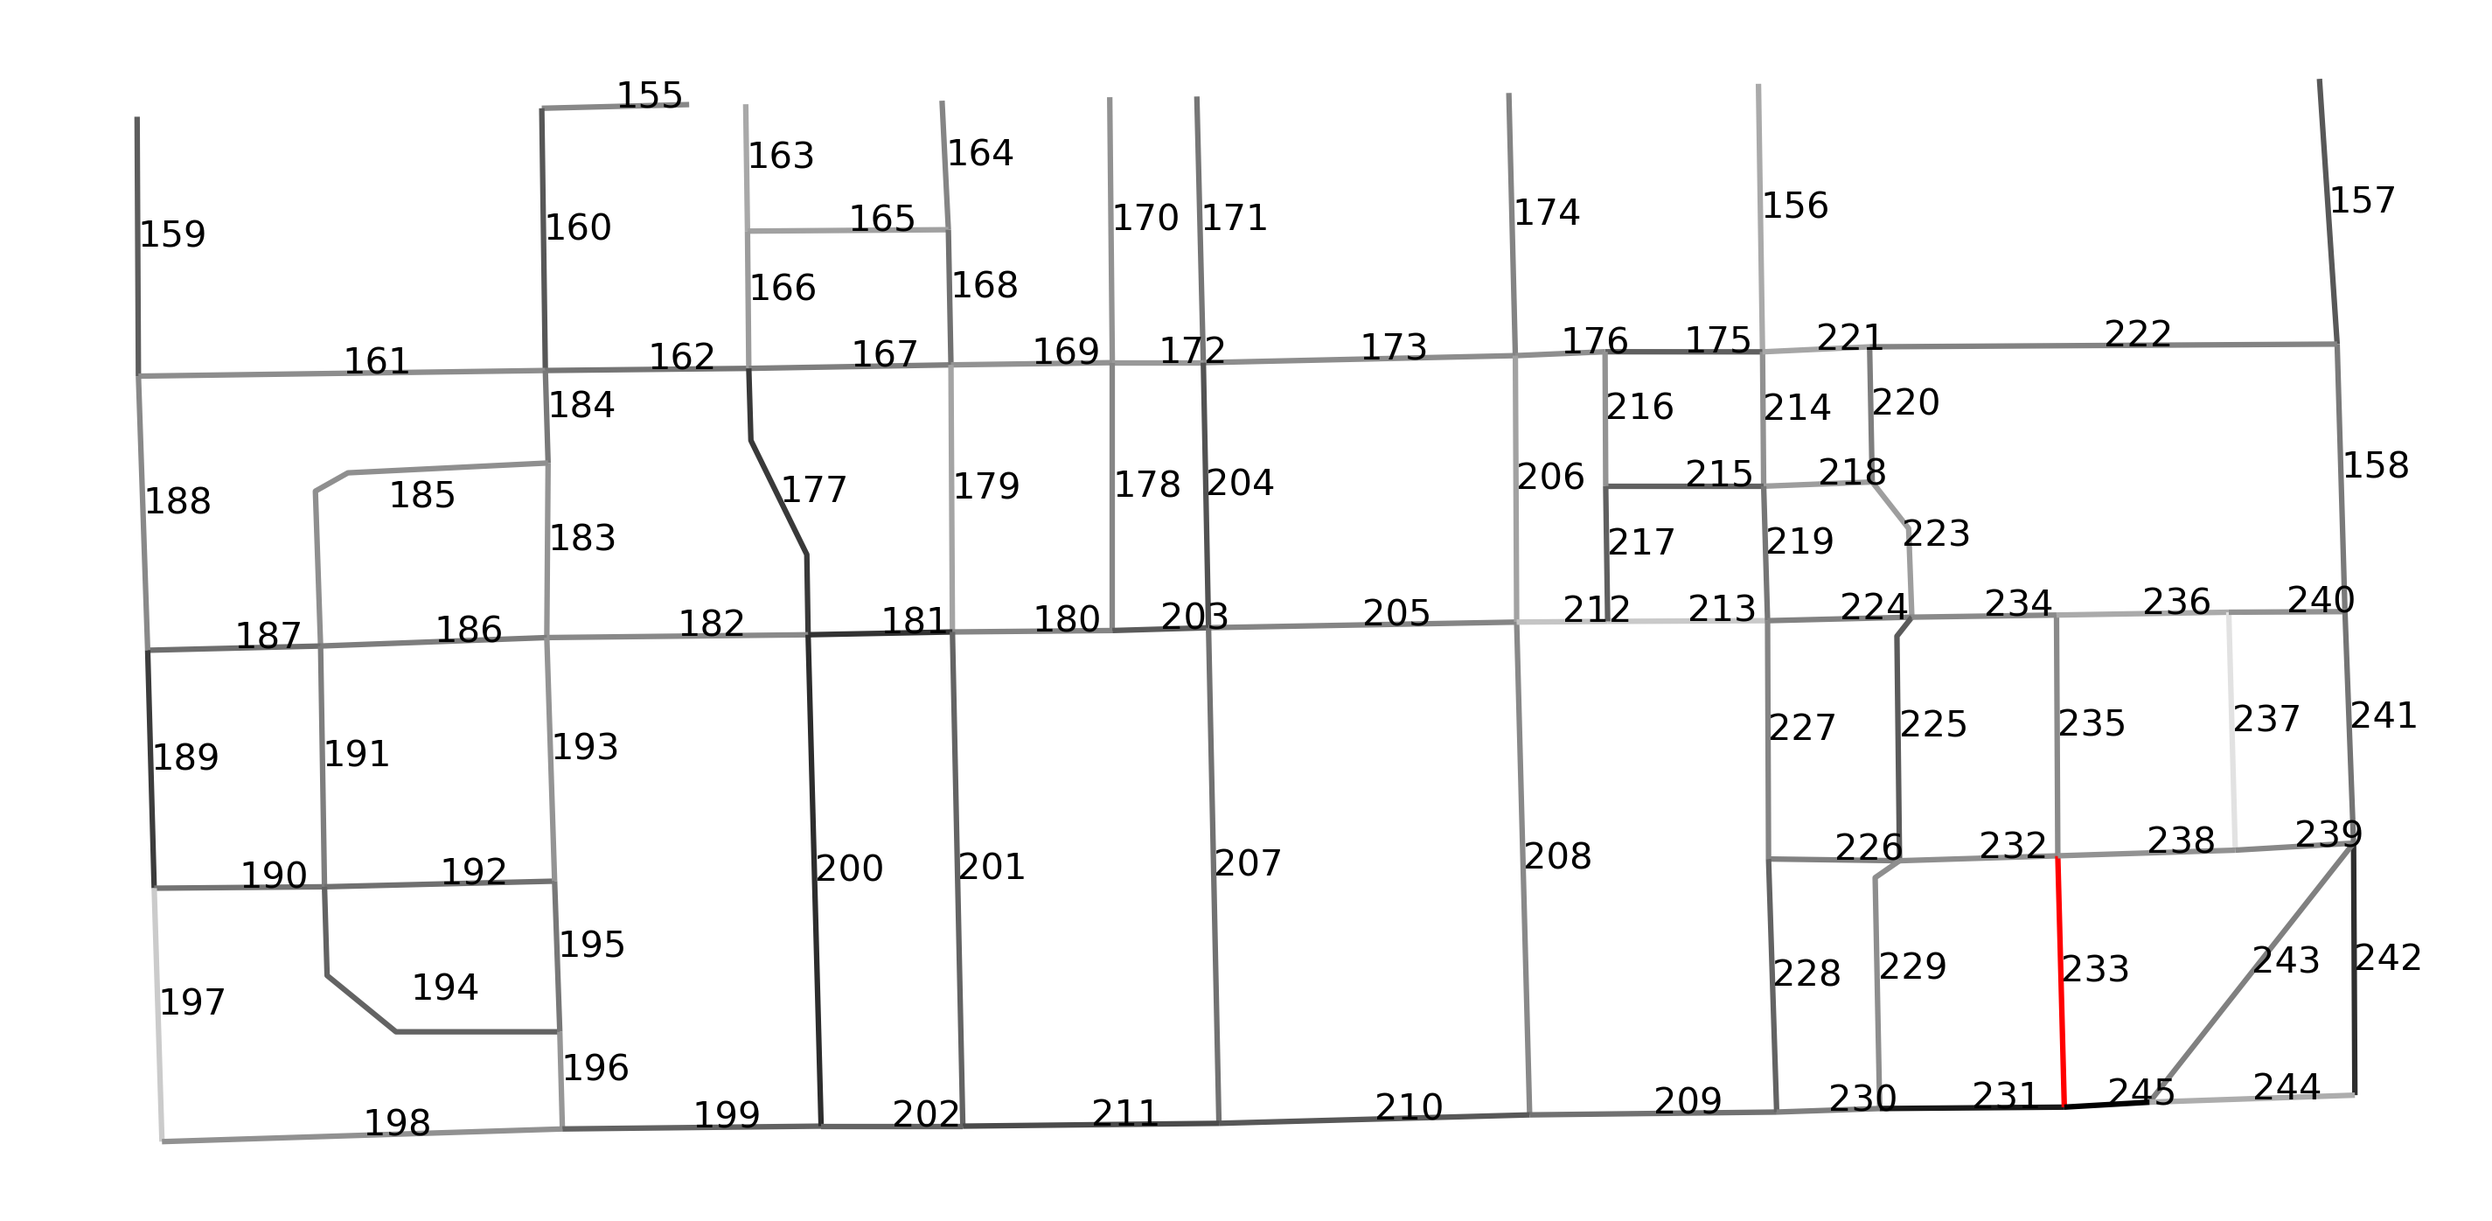
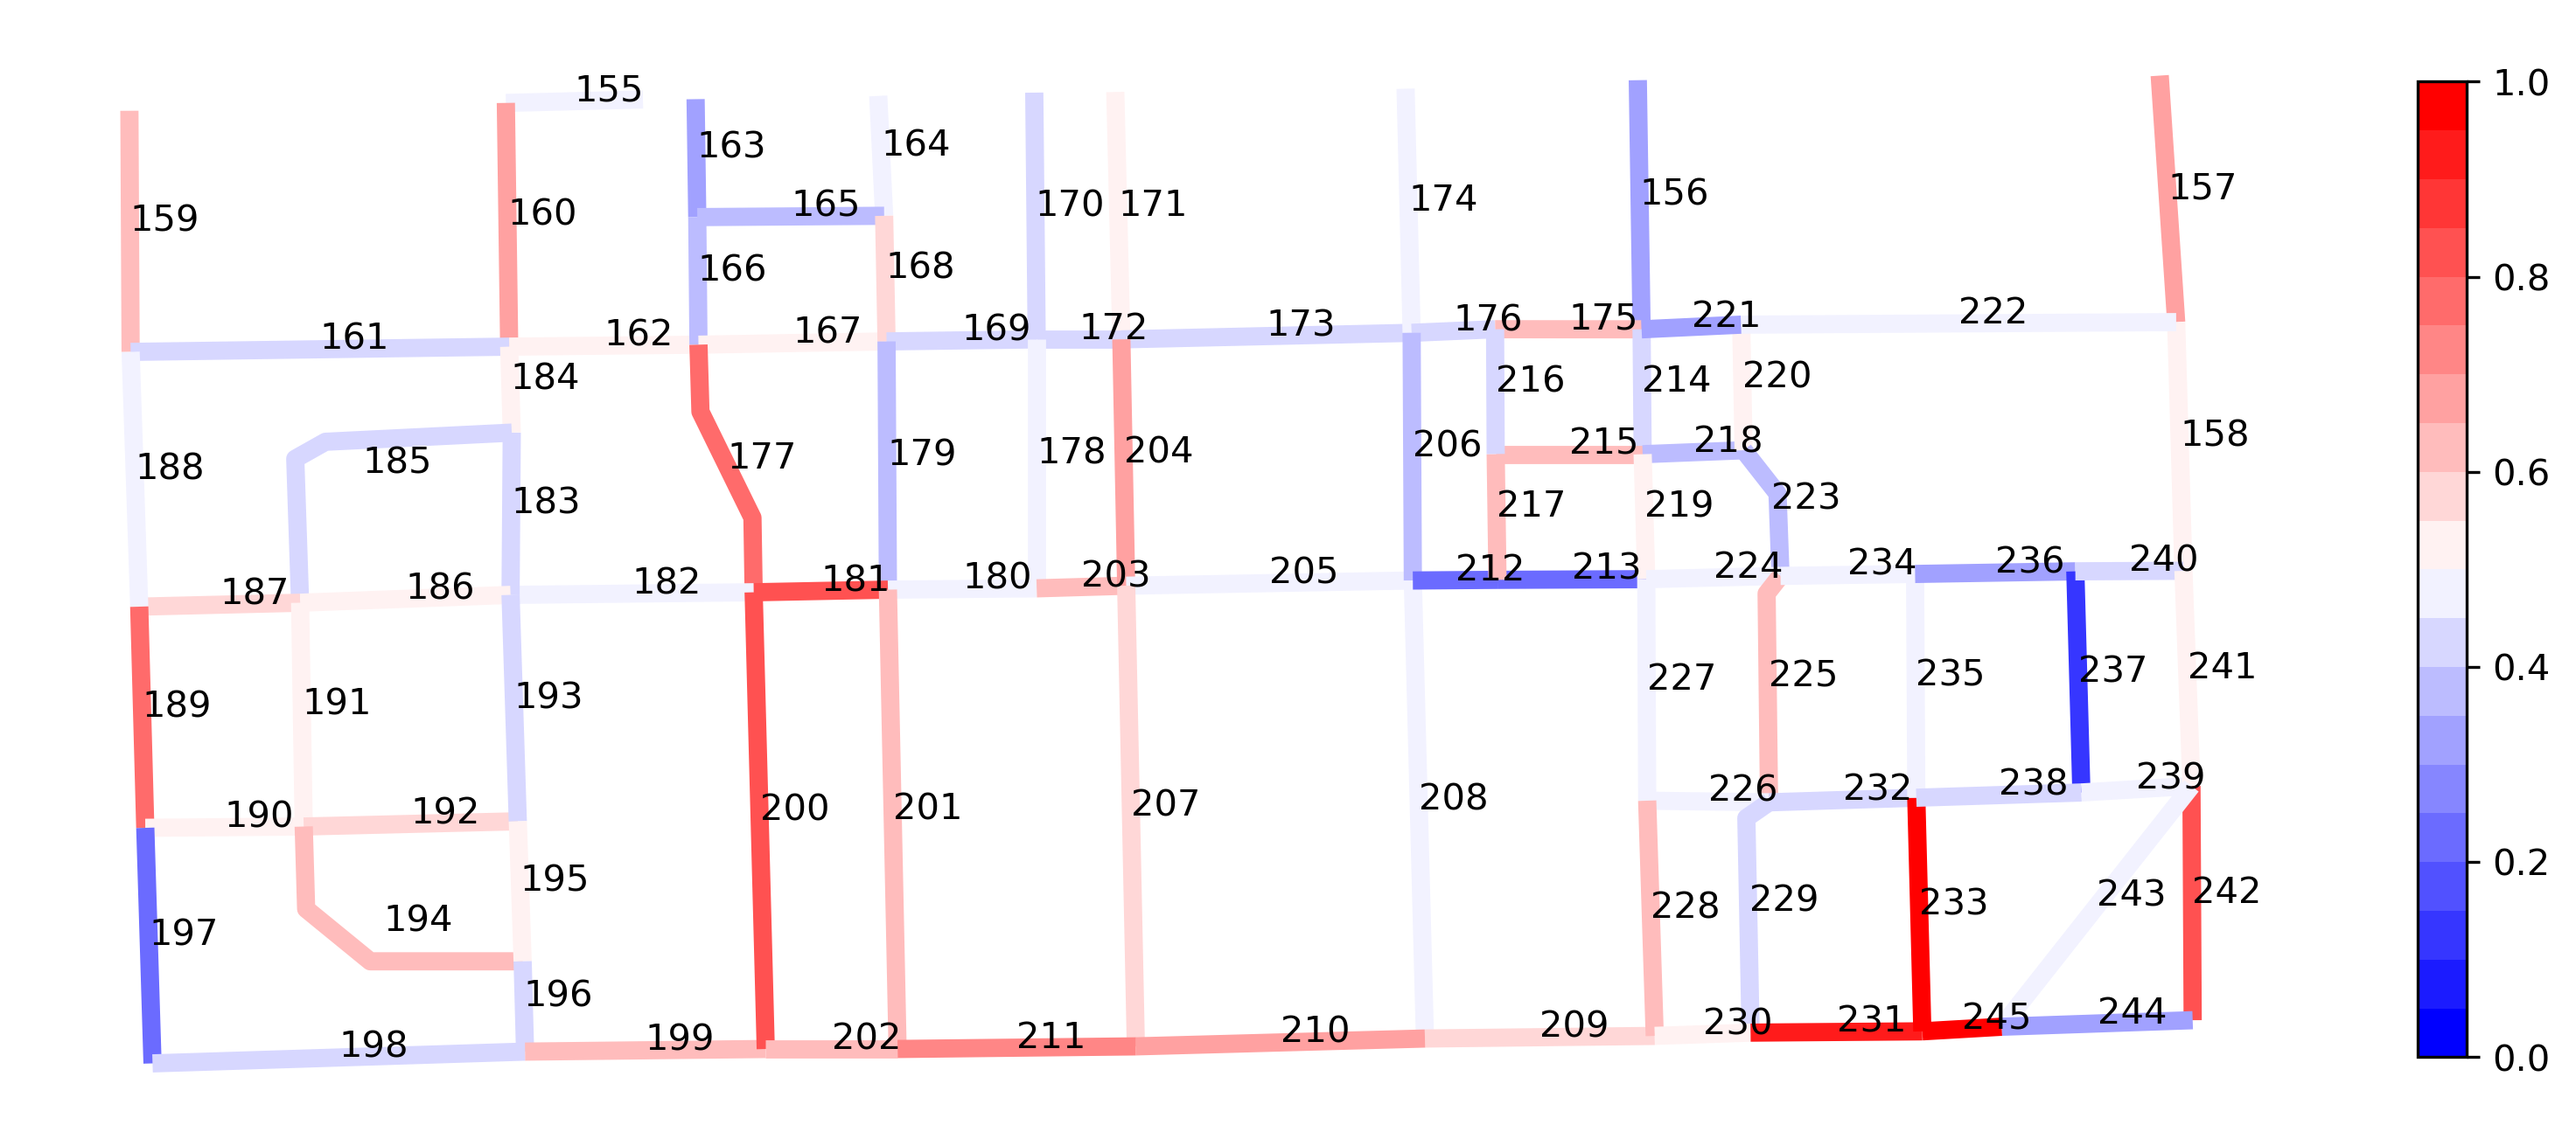
modify figures

diff --git a/sections/experiments.tex b/sections/experiments.tex
@@ -32,7 +32,7 @@ For the next-hop prediction model, the window size for trajectory fragments gene
     \end{center}
 \end{table}
 
-For traffic state prediction model, the input steps and prediction steps were both set to 12. The size of traffic state matrix is $n_r\times n_t=492\times 8064$. The data split ratio was also 7:1:2, and after sampling, we got 6437 traffic state vectors for training. The optimizer was Adam where the learning rate was set as 0.001, and the loss function was \textit{Mean Squared Error (MSE) Loss}. Batch size was set to 32 in order to avoid the \textit{CUDA Out of Memory} exception. Similarly, the training process would be early-stopped if the validation loss was not decreasing for 10 epochs, then the best model on validation data would be saved. Details are provided in table \ref{traff_pred_params}.
+For traffic state prediction models, the experiments were performed on DL-Traff\cite{dl-traff}, an open-source benchmark platform. As for the parameters, the input steps and prediction steps were both set to 12. The size of traffic state matrix is $n_r\times n_t=492\times 8064$. The data split ratio was also 7:1:2, and after sampling, we got 6437 traffic state vectors for training. The optimizer was Adam where the learning rate was set as 0.001, and the loss function was \textit{Mean Squared Error (MSE) Loss}. Batch size was set to 32 in order to avoid the \textit{CUDA Out of Memory} exception. Similarly, the training process would be early-stopped if the validation loss was not decreasing for 10 epochs, then the best model on validation data would be saved. Details are provided in table \ref{traff_pred_params}.
 
 \begin{table}[htb]
     \begin{center}
@@ -190,9 +190,9 @@ Secondly, we analyze the choice of $k$ when calculating \textit{refined adjacenc
     \caption{Visualization for road correlations of $r_{233}$.}
     \label{fig: road_correlation_map}
 \end{figure}
-In this section, we give a visualization for road correlation and select a specific road for a case study. We select roads $r_{155}$ to $r_{245}$, in total 91 roads, which lie in the bottom half of the road network, to visualize the road correlations among them, where the road correlation values are taken directly from \textit{road correlation matrix} $C$. As a result, the figure \ref{fig: road_correlation_map} is a grayscale image to show the correlations of road $r_{233}$ with other roads. The red road in the bottom right corner stands for $r_{233}$, while other roads are drawn by grey colors. A darker color means that the corresponding road has a higher correlation with $r_{233}$, and vice versa. If a road is white in the figure, then it has no correlation with $r_{233}$ at all. From the figure, we can observe that the nearby roads, which are $r_{231}, r_{245}, r_{232}, r_{238}, \dots$, are highly correlated with $r_{233}$. It meets our expectation because according to the map, they are $r_{233}$'s upstream and downstream roads, which means our model successfully captured the low-order dependencies. What's more, some long distance roads, such as $r_{200}, r_{181}, r_{177}, r_{160}$, also have considerable correlations with $r_{233}$, which are the high-order dependencies captured by the model. In short, the figure proves that the low and high-order spatial dependencies are both captured by our next-hop prediction model.
+In this section, we give a visualization for road correlation and select a specific road for a case study. We select roads $r_{155}$ to $r_{245}$, in total 91 roads, which lie in the bottom half of the road network, to visualize the road correlations among them, where the road correlation values are taken directly from \textit{road correlation matrix} $C$. As a result, the figure \ref{fig: road_correlation_map} shows the correlations of road $r_{233}$ with other roads. The red road in the bottom right corner stands for $r_{233}$, while other roads are drawn by the color bar according to their correlation values. A redder color means that the corresponding road has a higher correlation with $r_{233}$, and vice versa. If a road is pure blue in the figure, then it has no correlation with $r_{233}$ at all. From the figure, we can observe that the nearby roads, which are $r_{231}, r_{245}, r_{242}, \dots$, are highly correlated with $r_{233}$. It meets our expectation because according to the map, they are $r_{233}$'s upstream and downstream roads, which means our model successfully captured the low-order dependencies. What's more, some long distance roads, such as $r_{200}, r_{181}, r_{177}$, also have considerable correlations with $r_{233}$, which are the high-order dependencies captured by the model. In short, the figure proves that the low and high-order spatial dependencies are both captured by our next-hop prediction model.
 
-Next, starting from road embedding matrix $E$, we perform t-SNE\cite{tsne} algorithm to reduce the embedding dimension from $64$ to $2$, and plot the points on a 2-D figure. The color of each road remains same as figure \ref{fig: road_correlation_map}, where the red point still stands for $r_{233}$. If $C$ is able to represent the road correlations, then the high-correlated roads mentioned above should be close to the red point. As shown in figure \ref{fig: road_correlation_tsne}, the points for $r_{245}, r_{242}, r_{231}, r_{200}, r_{177}, r_{181}, r_{161}$ are near to $r_{233}$, which means $C$ is able to represent the similarity between road embedding vectors, i.e. road correlation.
+Next, starting from road embedding matrix $E$, we perform t-SNE\cite{tsne} algorithm to reduce the embedding dimension from $d_r=64$ to $2$, and plot the points on a 2-D figure. The color of each road remains same as figure \ref{fig: road_correlation_map}, where the red point still stands for $r_{233}$. If $C$ is able to represent the road correlations, then the high-correlated roads mentioned above should be close to the red point. As shown in figure \ref{fig: road_correlation_tsne}, the points for $r_{245}, r_{242}, r_{231}, r_{200}, r_{177}, r_{181}$ are near to $r_{233}$, which means $C$ is able to represent the similarity between road embedding vectors, i.e. road correlation.
 \begin{figure}[htb]
     \centering
     \includegraphics[width=\textwidth]{images/road_tsne.png}
